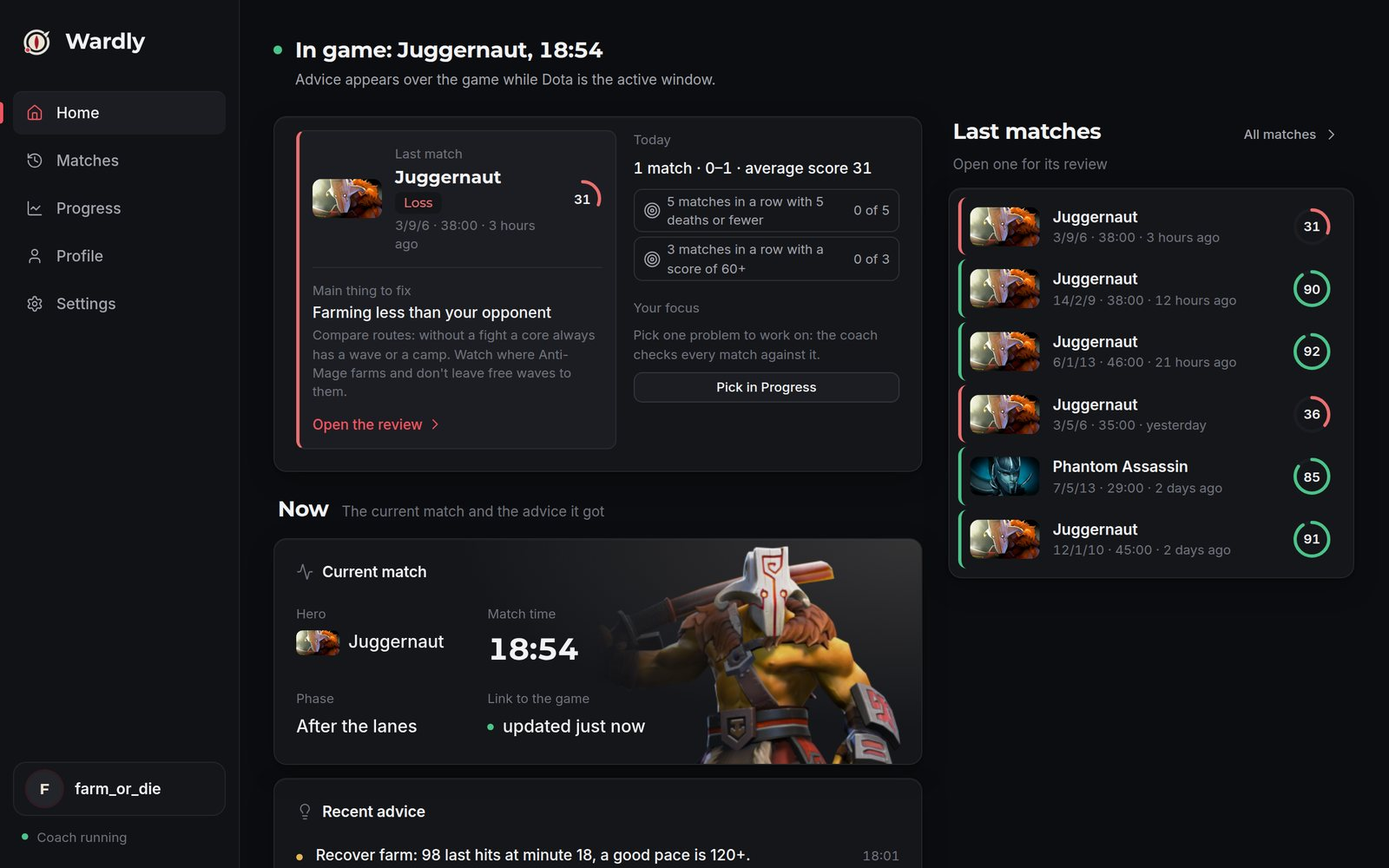
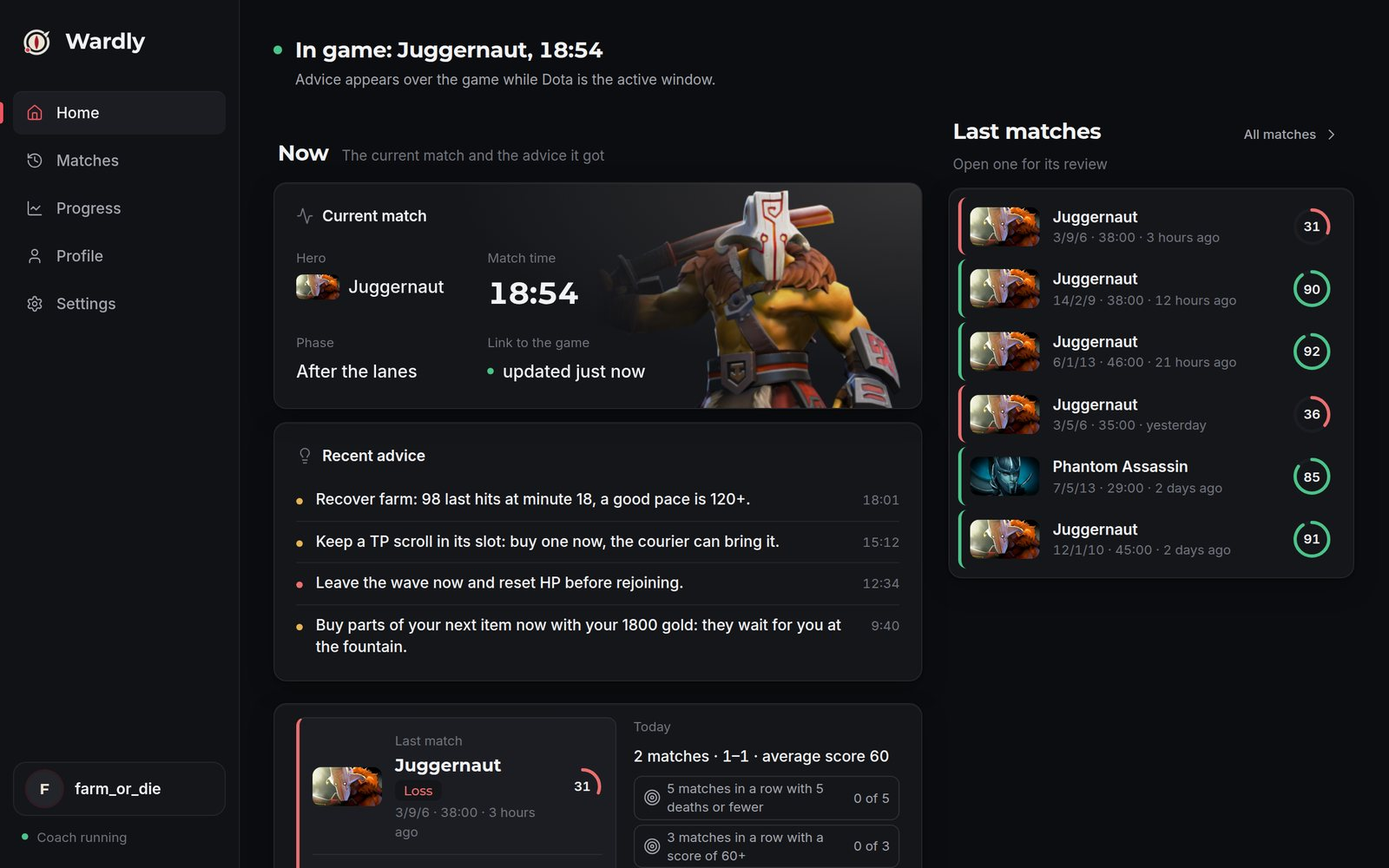
0.47.0: overlay kind stripe, current match first, calmer details; reshot pictures
Claude-Session: https://claude.ai/code/session_01R8qFseNjtRCaUJVPRqFekm

diff --git a/site/en/index.html b/site/en/index.html
@@ -22,7 +22,7 @@
     <link rel="apple-touch-icon" href="../assets/icon.png" />
     <link rel="preload" href="../assets/fonts/montserrat-cyrillic-wght-normal.woff2" as="font" type="font/woff2" crossorigin />
     <link rel="preload" href="../assets/fonts/inter-cyrillic-wght-normal.woff2" as="font" type="font/woff2" crossorigin />
-    <link rel="stylesheet" href="../styles.css?v=13" />
+    <link rel="stylesheet" href="../styles.css?v=14" />
     <script type="application/ld+json">
     {
       "@context": "https://schema.org",
@@ -109,9 +109,9 @@
           </div>
 
           <div class="hero-stage" aria-hidden="true">
-            <figure class="win win-back win-game"><img src="../assets/game/ingame-en.jpg?v=13" data-game="ingame" alt="" width="1600" height="900" /></figure>
-            <figure class="win win-front"><img src="../assets/app/en/review-ai.jpg?v=13" data-img="review-ai" alt="" width="1600" height="1000" /></figure>
-            <img class="hero-card" src="../assets/overlay/en/lowhp.webp?v=13" data-ov="lowhp" alt="" width="756" />
+            <figure class="win win-back win-game"><img src="../assets/game/ingame-en.jpg?v=14" data-game="ingame" alt="" width="1600" height="900" /></figure>
+            <figure class="win win-front"><img src="../assets/app/en/review-ai.jpg?v=14" data-img="review-ai" alt="" width="1600" height="1000" /></figure>
+            <img class="hero-card" src="../assets/overlay/en/lowhp.webp?v=14" data-ov="lowhp" alt="" width="756" />
           </div>
         </div>
       </section>
@@ -125,32 +125,32 @@
           </header>
           <div class="tiles">
             <article class="tile">
-              <div class="tile-art" style="--bg: url(../assets/game/fight.jpg)"><img src="../assets/overlay/en/lowhp.webp?v=13" data-ov="lowhp" alt="Urgent advice: leave the wave and reset HP" loading="lazy" data-i18n-alt="lowhpAlt" /></div>
+              <div class="tile-art" style="--bg: url(../assets/game/fight.jpg)"><img src="../assets/overlay/en/lowhp.webp?v=14" data-ov="lowhp" alt="Urgent advice: leave the wave and reset HP" loading="lazy" data-i18n-alt="lowhpAlt" /></div>
               <h3 data-i18n="lowhpTitle">Low HP</h3>
               <p data-i18n="lowhpText">Urgent advice at once, while you can still get away. The rest comes with pauses so it never distracts.</p>
             </article>
             <article class="tile">
-              <div class="tile-art" style="--bg: url(../assets/game/base.jpg)"><img src="../assets/overlay/en/plan.webp?v=13" data-ov="plan" alt="Plan for this game on the overlay" loading="lazy" data-i18n-alt="planAlt" /></div>
+              <div class="tile-art" style="--bg: url(../assets/game/base.jpg)"><img src="../assets/overlay/en/plan.webp?v=14" data-ov="plan" alt="Plan for this game on the overlay" loading="lazy" data-i18n-alt="planAlt" /></div>
               <h3 data-i18n="planTitle">Plan for this game</h3>
               <p data-i18n="planText">From the pick to 1:30: last hits you need by 10:00, the key item and your recurring mistake.</p>
             </article>
             <article class="tile">
-              <div class="tile-art" style="--bg: url(../assets/game/forest.jpg)"><img src="../assets/overlay/en/farm.webp?v=13" data-ov="farm" alt="Farm advice with the last-hit pace" loading="lazy" data-i18n-alt="farmAlt" /></div>
+              <div class="tile-art" style="--bg: url(../assets/game/forest.jpg)"><img src="../assets/overlay/en/farm.webp?v=14" data-ov="farm" alt="Farm advice with the last-hit pace" loading="lazy" data-i18n-alt="farmAlt" /></div>
               <h3 data-i18n="farmTitle">Behind on farm</h3>
               <p data-i18n="farmText">With numbers: your last hits and a good pace for this minute.</p>
             </article>
             <article class="tile">
-              <div class="tile-art" style="--bg: url(../assets/game/hook.jpg)"><img src="../assets/overlay/en/tp.webp?v=13" data-ov="tp" alt="Reminder to carry a TP scroll" loading="lazy" data-i18n-alt="tpAlt" /></div>
+              <div class="tile-art" style="--bg: url(../assets/game/hook.jpg)"><img src="../assets/overlay/en/tp.webp?v=14" data-ov="tp" alt="Reminder to carry a TP scroll" loading="lazy" data-i18n-alt="tpAlt" /></div>
               <h3 data-i18n="tpTitle">TP scroll</h3>
               <p data-i18n="tpText">After minute 10 it reminds you when you have gone a minute without a TP: without it you cannot join a fight or save a tower.</p>
             </article>
             <article class="tile">
-              <div class="tile-art" style="--bg: url(../assets/game/dark.jpg)"><img src="../assets/overlay/en/spend.webp?v=13" data-ov="spend" alt="Advice to spend gold while dead" loading="lazy" data-i18n-alt="spendAlt" /></div>
+              <div class="tile-art" style="--bg: url(../assets/game/dark.jpg)"><img src="../assets/overlay/en/spend.webp?v=14" data-ov="spend" alt="Advice to spend gold while dead" loading="lazy" data-i18n-alt="spendAlt" /></div>
               <h3 data-i18n="spendTitle">Gold after death</h3>
               <p data-i18n="spendText">Died with spare gold? Buy parts of your next item right away. After minute 30 it keeps the buyback gold.</p>
             </article>
             <article class="tile">
-              <div class="tile-art" style="--bg: url(../assets/game/chrono.jpg)"><img src="../assets/overlay/en/timer.webp?v=13" data-ov="timer" alt="Map timer: the Tormentor in 15 seconds" loading="lazy" data-i18n-alt="timerAlt" /></div>
+              <div class="tile-art" style="--bg: url(../assets/game/chrono.jpg)"><img src="../assets/overlay/en/timer.webp?v=14" data-ov="timer" alt="Map timer: the Tormentor in 15 seconds" loading="lazy" data-i18n-alt="timerAlt" /></div>
               <h3 data-i18n="timerTitle">Map timers</h3>
               <p data-i18n="timerText">20 seconds ahead: runes, shrines, lotuses, the Tormentor. Stacks and wards for a support. The coach finds your role from your lane.</p>
             </article>
@@ -176,15 +176,15 @@
           </header>
           <div class="steps">
             <figure class="step">
-              <div class="step-shot"><img src="../assets/app/en/home.jpg?v=13" data-img="home" alt="The app sees the match: Juggernaut, 18:54" loading="lazy" data-i18n-alt="step1Alt" /></div>
+              <div class="step-shot"><img src="../assets/app/en/home.jpg?v=14" data-img="home" alt="The app sees the match: Juggernaut, 18:54" loading="lazy" data-i18n-alt="step1Alt" /></div>
               <figcaption data-i18n="step1">Start Dota — the coach sees the match by itself through Valve's official integration</figcaption>
             </figure>
             <figure class="step">
-              <div class="step-shot step-game"><img src="../assets/game/ingame-en.jpg?v=13" data-game="ingame" alt="The plan for this game over a real Dota 2 match" loading="lazy" data-i18n-alt="step2Alt" /></div>
+              <div class="step-shot step-game"><img src="../assets/game/ingame-en.jpg?v=14" data-game="ingame" alt="The plan for this game over a real Dota 2 match" loading="lazy" data-i18n-alt="step2Alt" /></div>
               <figcaption data-i18n="step2">Play: short advice shows over the game when you need it</figcaption>
             </figure>
             <figure class="step">
-              <div class="step-shot"><img src="../assets/app/en/review.jpg?v=13" data-img="review" alt="Match review" loading="lazy" data-i18n-alt="step3Alt" /></div>
+              <div class="step-shot"><img src="../assets/app/en/review.jpg?v=14" data-img="review" alt="Match review" loading="lazy" data-i18n-alt="step3Alt" /></div>
               <figcaption data-i18n="step3">After the match open the review: the score, your mistakes and what to do next game</figcaption>
             </figure>
           </div>
@@ -195,8 +195,8 @@
       <section class="section" id="review">
         <div class="wrap split">
           <div class="split-stage" aria-hidden="true">
-            <figure class="win win-a"><img src="../assets/app/en/review.jpg?v=13" data-img="review" alt="" loading="lazy" width="1600" height="1000" /></figure>
-            <figure class="win win-b"><img src="../assets/app/en/progress-ai.jpg?v=13" data-img="progress-ai" alt="" loading="lazy" width="1600" height="1000" /></figure>
+            <figure class="win win-a"><img src="../assets/app/en/review.jpg?v=14" data-img="review" alt="" loading="lazy" width="1600" height="1000" /></figure>
+            <figure class="win win-b"><img src="../assets/app/en/progress-ai.jpg?v=14" data-img="progress-ai" alt="" loading="lazy" width="1600" height="1000" /></figure>
           </div>
           <div class="split-copy">
             <h2 data-i18n="reviewTitle">Your personal coach after every match</h2>
@@ -225,15 +225,15 @@
           </header>
           <div class="steps">
             <figure class="step">
-              <div class="step-shot step-crop"><img src="../assets/shots/en/map.jpg?v=13" data-shot="map" alt="Match map with deaths and the hero&#x27;s path" loading="lazy" data-i18n-alt="mapAlt" /></div>
+              <div class="step-shot step-crop"><img src="../assets/shots/en/map.jpg?v=14" data-shot="map" alt="Match map with deaths and the hero&#x27;s path" loading="lazy" data-i18n-alt="mapAlt" /></div>
               <figcaption data-i18n="mapCap">Match map: where you went and where you died. Keep dying on the enemy half and it goes into the review</figcaption>
             </figure>
             <figure class="step">
-              <div class="step-shot step-crop"><img src="../assets/shots/en/build.jpg?v=13" data-shot="build" alt="Item timings with win rates" loading="lazy" data-i18n-alt="buildAlt" /></div>
+              <div class="step-shot step-crop"><img src="../assets/shots/en/build.jpg?v=14" data-shot="build" alt="Item timings with win rates" loading="lazy" data-i18n-alt="buildAlt" /></div>
               <figcaption data-i18n="buildCap">Build: win rate by purchase time for every item, and the pro build</figcaption>
             </figure>
             <figure class="step">
-              <div class="step-shot step-crop fit"><img src="../assets/shots/en/chart.jpg?v=13" data-shot="chart" alt="Last hits by minute against a good pace" loading="lazy" data-i18n-alt="chartAlt" /></div>
+              <div class="step-shot step-crop fit"><img src="../assets/shots/en/chart.jpg?v=14" data-shot="chart" alt="Last hits by minute against a good pace" loading="lazy" data-i18n-alt="chartAlt" /></div>
               <figcaption data-i18n="chartCap">Last hits, gold and experience by minute against a good pace, with your deaths on the chart</figcaption>
             </figure>
           </div>
@@ -254,8 +254,8 @@
             </ul>
           </div>
           <div class="split-stage" aria-hidden="true">
-            <figure class="win win-a"><img src="../assets/app/en/profile-friends.jpg?v=13" data-img="profile-friends" alt="" loading="lazy" width="1600" height="1000" /></figure>
-            <figure class="win win-b"><img src="../assets/app/en/profile.jpg?v=13" data-img="profile" alt="" loading="lazy" width="1600" height="1000" /></figure>
+            <figure class="win win-a"><img src="../assets/app/en/profile-friends.jpg?v=14" data-img="profile-friends" alt="" loading="lazy" width="1600" height="1000" /></figure>
+            <figure class="win win-b"><img src="../assets/app/en/profile.jpg?v=14" data-img="profile" alt="" loading="lazy" width="1600" height="1000" /></figure>
           </div>
         </div>
       </section>
@@ -346,7 +346,7 @@
       </defs>
     </svg>
 
-    <script src="../i18n-en.js?v=13" defer></script>
-    <script src="../app.js?v=13" defer></script>
+    <script src="../i18n-en.js?v=14" defer></script>
+    <script src="../app.js?v=14" defer></script>
   </body>
 </html>

diff --git a/site/index.html b/site/index.html
@@ -28,7 +28,7 @@
     <link rel="apple-touch-icon" href="assets/icon.png" />
     <link rel="preload" href="assets/fonts/montserrat-cyrillic-wght-normal.woff2" as="font" type="font/woff2" crossorigin />
     <link rel="preload" href="assets/fonts/inter-cyrillic-wght-normal.woff2" as="font" type="font/woff2" crossorigin />
-    <link rel="stylesheet" href="styles.css?v=13" />
+    <link rel="stylesheet" href="styles.css?v=14" />
     <script type="application/ld+json">
     {
       "@context": "https://schema.org",
@@ -121,9 +121,9 @@
           </div>
 
           <div class="hero-stage" aria-hidden="true">
-            <figure class="win win-back win-game"><img src="assets/game/ingame-ru.jpg?v=13" data-game="ingame" alt="" width="1600" height="900" /></figure>
-            <figure class="win win-front"><img src="assets/app/ru/review-ai.jpg?v=13" data-img="review-ai" alt="" width="1600" height="1000" /></figure>
-            <img class="hero-card" src="assets/overlay/ru/lowhp.webp?v=13" data-ov="lowhp" alt="" width="756" />
+            <figure class="win win-back win-game"><img src="assets/game/ingame-ru.jpg?v=14" data-game="ingame" alt="" width="1600" height="900" /></figure>
+            <figure class="win win-front"><img src="assets/app/ru/review-ai.jpg?v=14" data-img="review-ai" alt="" width="1600" height="1000" /></figure>
+            <img class="hero-card" src="assets/overlay/ru/lowhp.webp?v=14" data-ov="lowhp" alt="" width="756" />
           </div>
         </div>
       </section>
@@ -137,32 +137,32 @@
           </header>
           <div class="tiles">
             <article class="tile">
-              <div class="tile-art" style="--bg: url(assets/game/fight.jpg)"><img src="assets/overlay/ru/lowhp.webp?v=13" data-ov="lowhp" alt="" loading="lazy" data-i18n-alt="lowhpAlt" /></div>
+              <div class="tile-art" style="--bg: url(assets/game/fight.jpg)"><img src="assets/overlay/ru/lowhp.webp?v=14" data-ov="lowhp" alt="" loading="lazy" data-i18n-alt="lowhpAlt" /></div>
               <h3 data-i18n="lowhpTitle">Мало HP</h3>
               <p data-i18n="lowhpText">Срочная подсказка сразу, пока ещё можно уйти. Остальные — с паузами, чтобы не отвлекать.</p>
             </article>
             <article class="tile">
-              <div class="tile-art" style="--bg: url(assets/game/base.jpg)"><img src="assets/overlay/ru/plan.webp?v=13" data-ov="plan" alt="" loading="lazy" data-i18n-alt="planAlt" /></div>
+              <div class="tile-art" style="--bg: url(assets/game/base.jpg)"><img src="assets/overlay/ru/plan.webp?v=14" data-ov="plan" alt="" loading="lazy" data-i18n-alt="planAlt" /></div>
               <h3 data-i18n="planTitle">План на игру</h3>
               <p data-i18n="planText">С пика до 1:30: сколько добиваний нужно к 10:00, ключевой предмет и твоя частая ошибка.</p>
             </article>
             <article class="tile">
-              <div class="tile-art" style="--bg: url(assets/game/forest.jpg)"><img src="assets/overlay/ru/farm.webp?v=13" data-ov="farm" alt="" loading="lazy" data-i18n-alt="farmAlt" /></div>
+              <div class="tile-art" style="--bg: url(assets/game/forest.jpg)"><img src="assets/overlay/ru/farm.webp?v=14" data-ov="farm" alt="" loading="lazy" data-i18n-alt="farmAlt" /></div>
               <h3 data-i18n="farmTitle">Отставание по фарму</h3>
               <p data-i18n="farmText">С цифрами: сколько добиваний у тебя и какой темп хороший на этой минуте.</p>
             </article>
             <article class="tile">
-              <div class="tile-art" style="--bg: url(assets/game/hook.jpg)"><img src="assets/overlay/ru/tp.webp?v=13" data-ov="tp" alt="" loading="lazy" data-i18n-alt="tpAlt" /></div>
+              <div class="tile-art" style="--bg: url(assets/game/hook.jpg)"><img src="assets/overlay/ru/tp.webp?v=14" data-ov="tp" alt="" loading="lazy" data-i18n-alt="tpAlt" /></div>
               <h3 data-i18n="tpTitle">Свиток телепортации</h3>
               <p data-i18n="tpText">После 10-й минуты напомнит, если ТП нет больше минуты: без него не успеть ни в драку, ни к башне.</p>
             </article>
             <article class="tile">
-              <div class="tile-art" style="--bg: url(assets/game/dark.jpg)"><img src="assets/overlay/ru/spend.webp?v=13" data-ov="spend" alt="" loading="lazy" data-i18n-alt="spendAlt" /></div>
+              <div class="tile-art" style="--bg: url(assets/game/dark.jpg)"><img src="assets/overlay/ru/spend.webp?v=14" data-ov="spend" alt="" loading="lazy" data-i18n-alt="spendAlt" /></div>
               <h3 data-i18n="spendTitle">Золото после смерти</h3>
               <p data-i18n="spendText">Умер с лишним золотом — сразу купи части следующего предмета. После 30-й минуты оставит на байбэк.</p>
             </article>
             <article class="tile">
-              <div class="tile-art" style="--bg: url(assets/game/chrono.jpg)"><img src="assets/overlay/ru/timer.webp?v=13" data-ov="timer" alt="" loading="lazy" data-i18n-alt="timerAlt" /></div>
+              <div class="tile-art" style="--bg: url(assets/game/chrono.jpg)"><img src="assets/overlay/ru/timer.webp?v=14" data-ov="timer" alt="" loading="lazy" data-i18n-alt="timerAlt" /></div>
               <h3 data-i18n="timerTitle">Таймеры карты</h3>
               <p data-i18n="timerText">За 20 секунд: руны, святилища, лотосы, Торментор. Саппорту — стаки и варды. Роль тренер поймёт по линии сам.</p>
             </article>
@@ -188,15 +188,15 @@
           </header>
           <div class="steps">
             <figure class="step">
-              <div class="step-shot"><img src="assets/app/ru/home.jpg?v=13" data-img="home" alt="" loading="lazy" data-i18n-alt="step1Alt" /></div>
+              <div class="step-shot"><img src="assets/app/ru/home.jpg?v=14" data-img="home" alt="" loading="lazy" data-i18n-alt="step1Alt" /></div>
               <figcaption data-i18n="step1">Запусти Доту — тренер увидит матч сам через официальную интеграцию Valve</figcaption>
             </figure>
             <figure class="step">
-              <div class="step-shot step-game"><img src="assets/game/ingame-ru.jpg?v=13" data-game="ingame" alt="" loading="lazy" data-i18n-alt="step2Alt" /></div>
+              <div class="step-shot step-game"><img src="assets/game/ingame-ru.jpg?v=14" data-game="ingame" alt="" loading="lazy" data-i18n-alt="step2Alt" /></div>
               <figcaption data-i18n="step2">Играй: короткая подсказка появится поверх игры, когда она нужна</figcaption>
             </figure>
             <figure class="step">
-              <div class="step-shot"><img src="assets/app/ru/review.jpg?v=13" data-img="review" alt="" loading="lazy" data-i18n-alt="step3Alt" /></div>
+              <div class="step-shot"><img src="assets/app/ru/review.jpg?v=14" data-img="review" alt="" loading="lazy" data-i18n-alt="step3Alt" /></div>
               <figcaption data-i18n="step3">После матча открой разбор: оценка, ошибки и что делать в следующей игре</figcaption>
             </figure>
           </div>
@@ -207,8 +207,8 @@
       <section class="section" id="review">
         <div class="wrap split">
           <div class="split-stage" aria-hidden="true">
-            <figure class="win win-a"><img src="assets/app/ru/review.jpg?v=13" data-img="review" alt="" loading="lazy" width="1600" height="1000" /></figure>
-            <figure class="win win-b"><img src="assets/app/ru/progress-ai.jpg?v=13" data-img="progress-ai" alt="" loading="lazy" width="1600" height="1000" /></figure>
+            <figure class="win win-a"><img src="assets/app/ru/review.jpg?v=14" data-img="review" alt="" loading="lazy" width="1600" height="1000" /></figure>
+            <figure class="win win-b"><img src="assets/app/ru/progress-ai.jpg?v=14" data-img="progress-ai" alt="" loading="lazy" width="1600" height="1000" /></figure>
           </div>
           <div class="split-copy">
             <h2 data-i18n="reviewTitle">Персональный тренер после матча</h2>
@@ -240,15 +240,15 @@
           </header>
           <div class="steps">
             <figure class="step">
-              <div class="step-shot step-crop"><img src="assets/shots/ru/map.jpg?v=13" data-shot="map" alt="" loading="lazy" data-i18n-alt="mapAlt" /></div>
+              <div class="step-shot step-crop"><img src="assets/shots/ru/map.jpg?v=14" data-shot="map" alt="" loading="lazy" data-i18n-alt="mapAlt" /></div>
               <figcaption data-i18n="mapCap">Карта матча: где ходил и где умирал. Часто гибнешь на половине врага — это попадёт в разбор</figcaption>
             </figure>
             <figure class="step">
-              <div class="step-shot step-crop"><img src="assets/shots/ru/build.jpg?v=13" data-shot="build" alt="" loading="lazy" data-i18n-alt="buildAlt" /></div>
+              <div class="step-shot step-crop"><img src="assets/shots/ru/build.jpg?v=14" data-shot="build" alt="" loading="lazy" data-i18n-alt="buildAlt" /></div>
               <figcaption data-i18n="buildCap">Сборка: процент побед по времени покупки каждого предмета и сборка про-игроков</figcaption>
             </figure>
             <figure class="step">
-              <div class="step-shot step-crop fit"><img src="assets/shots/ru/chart.jpg?v=13" data-shot="chart" alt="" loading="lazy" data-i18n-alt="chartAlt" /></div>
+              <div class="step-shot step-crop fit"><img src="assets/shots/ru/chart.jpg?v=14" data-shot="chart" alt="" loading="lazy" data-i18n-alt="chartAlt" /></div>
               <figcaption data-i18n="chartCap">Добивания, золото и опыт по минутам против хорошего темпа, со смертями на графике</figcaption>
             </figure>
           </div>
@@ -269,8 +269,8 @@
             </ul>
           </div>
           <div class="split-stage" aria-hidden="true">
-            <figure class="win win-a"><img src="assets/app/ru/profile-friends.jpg?v=13" data-img="profile-friends" alt="" loading="lazy" width="1600" height="1000" /></figure>
-            <figure class="win win-b"><img src="assets/app/ru/profile.jpg?v=13" data-img="profile" alt="" loading="lazy" width="1600" height="1000" /></figure>
+            <figure class="win win-a"><img src="assets/app/ru/profile-friends.jpg?v=14" data-img="profile-friends" alt="" loading="lazy" width="1600" height="1000" /></figure>
+            <figure class="win win-b"><img src="assets/app/ru/profile.jpg?v=14" data-img="profile" alt="" loading="lazy" width="1600" height="1000" /></figure>
           </div>
         </div>
       </section>
@@ -363,7 +363,7 @@
       </defs>
     </svg>
 
-    <script src="i18n-en.js?v=13" defer></script>
-    <script src="app.js?v=13" defer></script>
+    <script src="i18n-en.js?v=14" defer></script>
+    <script src="app.js?v=14" defer></script>
   </body>
 </html>

diff --git a/site/changelog.html b/site/changelog.html
@@ -98,6 +98,16 @@
       <article data-doc="ru" lang="ru">
         <h1>Что нового</h1>
         <p class="doc-updated">Все версии Wardly. Установленное приложение обновляется само, когда Дота закрыта.</p>
+<section class="release" id="v0.47.0">
+<h2><a href="#v0.47.0">Версия 0.47.0</a></h2>
+<ul>
+  <li><strong>Карточку в игре видно краем глаза.</strong> Слева у неё цветная полоска по типу подсказки: красная — срочно, жёлтая — совет, зелёная — спокойная подсказка или выигранный матч, кремовая — карта и план на игру. Фон карточки — в тех же тёплых тонах, что и приложение.</li>
+  <li><strong>Во время игры текущий матч наверху.</strong> Пока Дота запущена, «Главная» показывает текущий матч и последние подсказки первыми, а итог прошлого матча — под ними.</li>
+  <li><strong>Спокойнее мелочи.</strong> Прогресс наград и искры в профиле теперь кремовые, а не красные: красная полоска читалась как провал. У матча без разбора в таблице стоит прочерк вместо пустого кольца, похожего на кнопку. «Ещё настройки» оформлены раскрывающейся строкой, как «Для разработчика».</li>
+</ul>
+<p>Установщик пока без цифровой подписи: если Windows покажет «Windows защитил ваш компьютер», нажмите «Подробнее» → «Выполнить в любом случае». Установленная версия обновится сама, когда Дота будет закрыта.</p>
+<p class="release-link"><a href="https://github.com/makquella/dota-ai-coach/releases/tag/v0.47.0" rel="noopener">Скачать и подробности</a></p>
+</section>
 <section class="release" id="v0.46.0">
 <h2><a href="#v0.46.0">Версия 0.46.0</a></h2>
 <ul>
@@ -831,6 +841,15 @@
       <article data-doc="en" lang="en" hidden>
         <h1>What's new</h1>
         <p class="doc-updated">Every Wardly version. The installed app updates itself while Dota is closed.</p>
+<section class="release" id="v0.47.0">
+<h2><a href="#v0.47.0">Version 0.47.0</a></h2>
+<ul>
+  <li><strong>The in-game card reads at a glance:</strong> a coloured stripe on its left — red urgent, yellow a tip, green a calm note or a won match, cream the map and the plan.</li>
+  <li><strong>While Dota runs, Home shows the current match first.</strong></li>
+  <li><strong>Calmer details:</strong> achievement progress and sparks in cream, a dash for matches without a review, “More settings” as a folded row.</li>
+</ul>
+<p class="release-link"><a href="https://github.com/makquella/dota-ai-coach/releases/tag/v0.47.0" rel="noopener">Download and details</a></p>
+</section>
 <section class="release" id="v0.46.0">
 <h2><a href="#v0.46.0">Version 0.46.0</a></h2>
 <ul>

diff --git a/frontend/launcher/renderer/app.js b/frontend/launcher/renderer/app.js
@@ -350,6 +350,11 @@ const I18N = {
     tourHint: "A short tour of the app, one minute",
     tourStart: "Show",
     whatsNew: {
+      "0.47.0": [
+        "The in-game card has a coloured stripe on its left: red urgent, yellow a tip, green a calm note, cream the map and the plan.",
+        "While Dota runs, Home shows the current match first.",
+        "Calmer details: achievement progress and sparks in cream, a dash instead of an empty ring for matches without a review, “More settings” as a folded row."
+      ],
       "0.46.0": [
         "Scroll down a review and its top bar stays with you: the hero, the result, the score and ‹ Newer · Older ›.",
         "Progress tiles show your last 20 matches: wins and losses, and how gold, last hits and the score went.",
@@ -1109,6 +1114,11 @@ const I18N = {
     tourHint: "Короткая экскурсия по приложению, на минуту",
     tourStart: "Показать",
     whatsNew: {
+      "0.47.0": [
+        "У карточки в игре цветная полоска слева: красная — срочно, жёлтая — совет, зелёная — спокойная подсказка, кремовая — карта и план.",
+        "Пока Дота запущена, «Главная» показывает текущий матч первым.",
+        "Спокойнее мелочи: прогресс наград и искры кремовые, у матча без разбора — прочерк вместо пустого кольца, «Ещё настройки» — раскрывающаяся строка."
+      ],
       "0.46.0": [
         "При прокрутке разбора верхняя полоса остаётся на месте: герой, итог, оценка и «‹ Новее · Старее ›».",
         "Плитки «Прогресса» показывают последние 20 матчей: победы и поражения, как менялись золото, добивания и оценка.",

diff --git a/site/app.js b/site/app.js
@@ -6,7 +6,7 @@
   const LANG_KEY = "dac.lang";
   const API = "https://api.luhovyimvp.dev";
   // Bump with every reshoot of the pictures (scripts/site-shots) and in index.html.
-  const SHOTS_VERSION = "13";
+  const SHOTS_VERSION = "14";
 
   const EN = Object.assign({}, window.WARDLY_EN || {}, {
     version: (v, mb) => `Version ${v} · Windows 10 and 11 · ${mb} MB`

diff --git a/backend/app/main.py b/backend/app/main.py
@@ -75,7 +75,7 @@ app = FastAPI(
     lifespan=_lifespan,
     title="Wardly",
     description="MVP-1: rule-based carry coach with local knowledge-base RAG.",
-    version="0.46.0",
+    version="0.47.0",
 )
 app.include_router(player_router)
 
@@ -109,7 +109,7 @@ if FRONTEND_DIR.exists():
 @app.get("/", summary="Health check")
 def root():
     """Simple health-check endpoint."""
-    return {"status": "ok", "service": "Wardly", "version": "0.46.0"}
+    return {"status": "ok", "service": "Wardly", "version": "0.47.0"}
 
 
 @app.get("/health", summary="Health check")

diff --git a/docs/release-notes/v0.47.0.md b/docs/release-notes/v0.47.0.md
@@ -1,0 +1,14 @@
+## Что нового
+
+- **Карточку в игре видно краем глаза.** Слева у неё цветная полоска по типу подсказки: красная — срочно, жёлтая — совет, зелёная — спокойная подсказка или выигранный матч, кремовая — карта и план на игру. Фон карточки — в тех же тёплых тонах, что и приложение.
+- **Во время игры текущий матч наверху.** Пока Дота запущена, «Главная» показывает текущий матч и последние подсказки первыми, а итог прошлого матча — под ними.
+- **Спокойнее мелочи.** Прогресс наград и искры в профиле теперь кремовые, а не красные: красная полоска читалась как провал. У матча без разбора в таблице стоит прочерк вместо пустого кольца, похожего на кнопку. «Ещё настройки» оформлены раскрывающейся строкой, как «Для разработчика».
+
+Установщик пока без цифровой подписи: если Windows покажет «Windows защитил ваш компьютер», нажмите «Подробнее» → «Выполнить в любом случае». Установленная версия обновится сама, когда Дота будет закрыта.
+
+---
+
+**In English:**
+- **The in-game card reads at a glance:** a coloured stripe on its left — red urgent, yellow a tip, green a calm note or a won match, cream the map and the plan.
+- **While Dota runs, Home shows the current match first.**
+- **Calmer details:** achievement progress and sparks in cream, a dash for matches without a review, “More settings” as a folded row.
